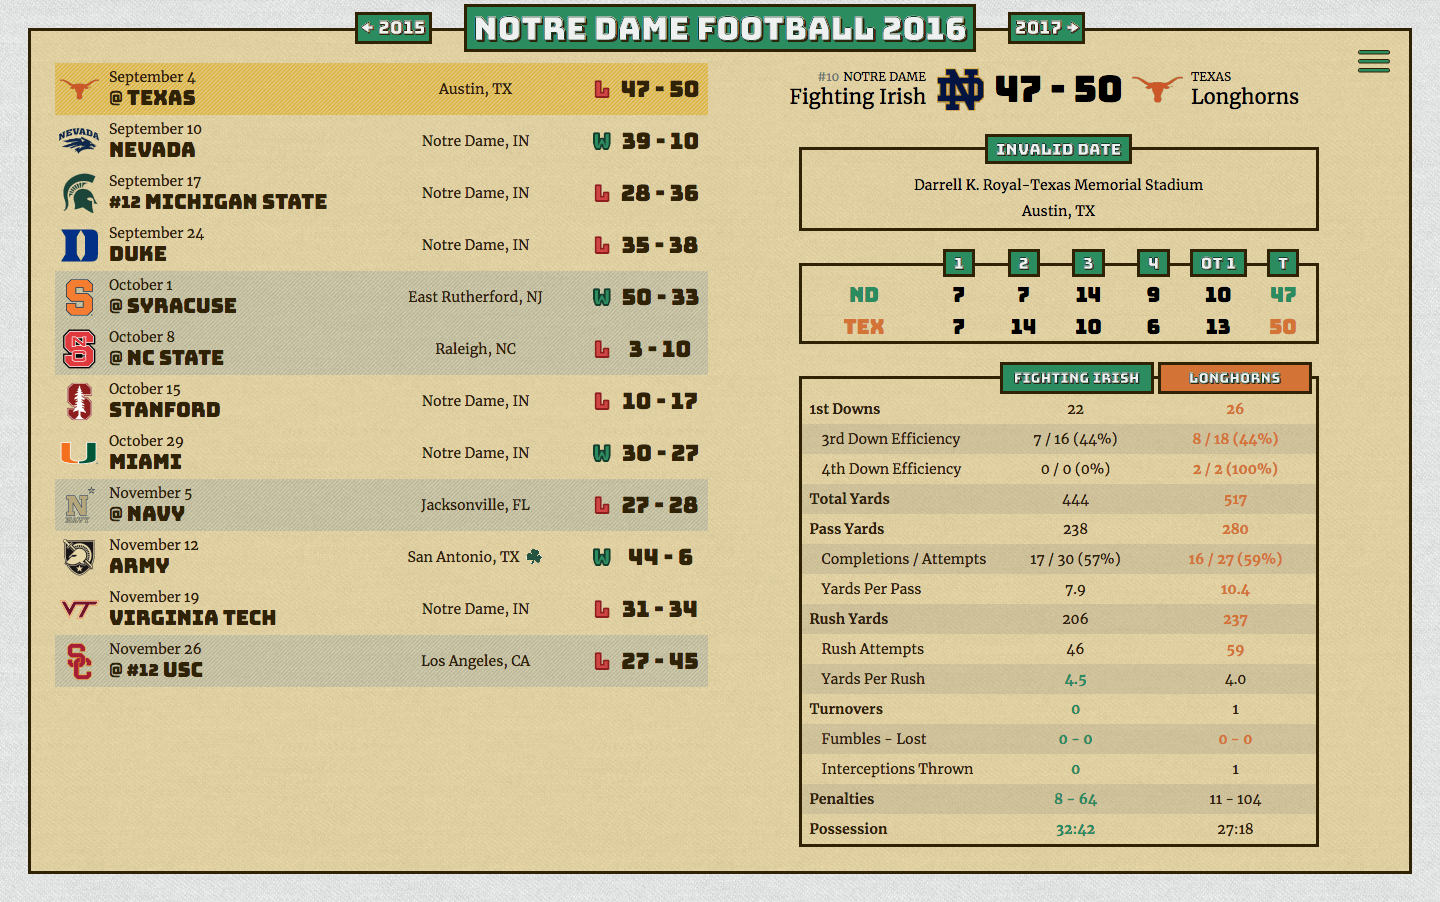
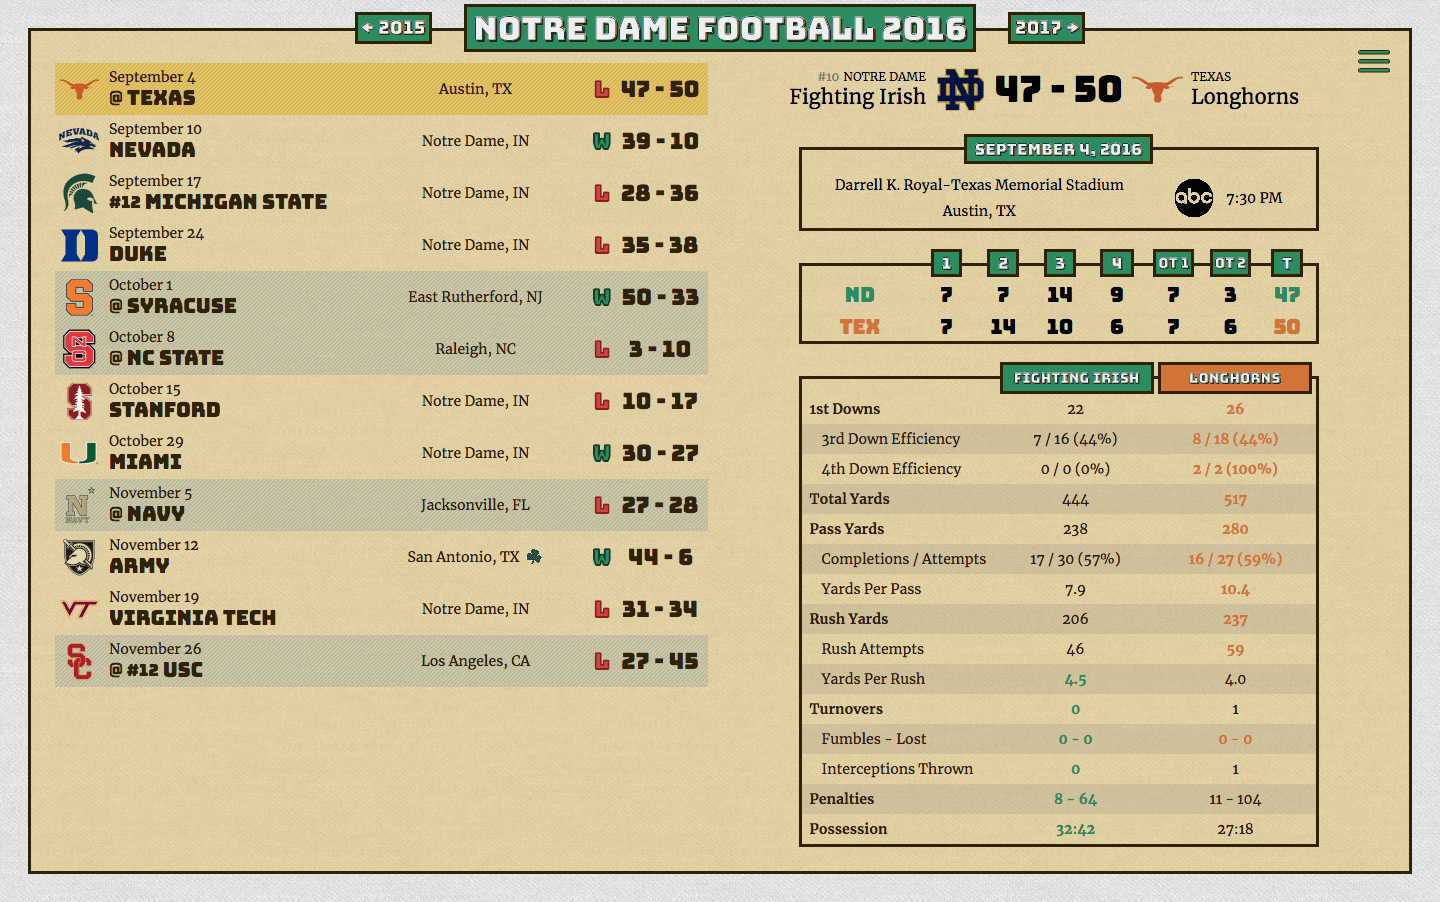
Fixed OT scores for 2016 Texas game and updated OT line score styling

Changed region(s): [[0.625, 0.2794, 0.9062, 0.3725], [0.5938, 0.1242, 0.8438, 0.2483], [0.5625, 0.3104, 0.625, 0.3725]]

diff --git a/src/components/gameSummary/CompletedGameSummary/Metadata/index.js b/src/components/gameSummary/CompletedGameSummary/Metadata/index.js
@@ -18,9 +18,9 @@ const Metadata = ({game}) => {
     date = format(new Date(game.fullDate), 'MMMM D, YYYY');
     time = game.isTimeTbd ? 'TBD' : format(new Date(game.fullDate), 'h:mm A');
   } else {
-    date = format(game.timestamp || game.date, 'MMM. D, YYYY');
+    date = format(new Date(game.timestamp || game.date), 'MMMM D, YYYY');
     if ('timestamp' in game) {
-      time = format(game.timestamp || game.date, 'h:mm A');
+      time = format(new Date(game.timestamp || game.date), 'h:mm A');
     }
   }
 
@@ -52,6 +52,8 @@ const Metadata = ({game}) => {
         <p>{time}</p>
       </MetadataCoverage>
     );
+  } else if (tvCoverageContent) {
+    metadataCoverage = <MetadataCoverage>{tvCoverageContent}</MetadataCoverage>;
   }
 
   let stadium = game.location.stadium || null;
@@ -62,7 +64,7 @@ const Metadata = ({game}) => {
   return (
     <MetadataWrapper>
       <MetadataDateContainer>
-        <MetadataDate>{format(date, 'MMMM D, YYYY')}</MetadataDate>
+        <MetadataDate>{date}</MetadataDate>
       </MetadataDateContainer>
       <MetadataContent>
         <MetadataLocation>

diff --git a/src/components/gameSummary/CompletedGameSummary/Linescore/index.js b/src/components/gameSummary/CompletedGameSummary/Linescore/index.js
@@ -1,6 +1,7 @@
 import _ from 'lodash';
 import React from 'react';
 import PropTypes from 'prop-types';
+import classNames from 'classnames';
 
 import {ScoreColumn, LinescoreWrapper, AbbreviationColumn} from './index.styles';
 
@@ -31,10 +32,13 @@ const Linescore = ({linescore, homeTeam, awayTeam}) => {
     totalScores.away += linescore.away[i];
 
     let header = i < 4 ? i + 1 : `OT ${i - 3}`;
+    const classes = classNames({
+      'overtime-header': _.includes(header, 'OT'),
+    });
 
     return (
       <ScoreColumn key={header}>
-        <p>{header}</p>
+        <p className={classes}>{header}</p>
         <p>{linescore.away[i]}</p>
         <p>{linescore.home[i]}</p>
       </ScoreColumn>

diff --git a/src/components/gameSummary/CompletedGameSummary/Linescore/index.styles.js b/src/components/gameSummary/CompletedGameSummary/Linescore/index.styles.js
@@ -73,9 +73,10 @@ export const ScoreColumn = styled(LinescoreColumn)`
     -webkit-text-stroke: 1px; /* TODO: cross-browser solution */
     -webkit-text-stroke-color: ${(props) => darken(0.2, props.theme.colors.green)};
     text-shadow: ${(props) => props.theme.colors.black} 1px 1px;
-  }
 
-  @media (max-width: 950px) {
-    font-size: 18px;
+    &.overtime-header {
+      font-size: 14px;
+      padding: 0 2px;
+    }
   }
 `;
